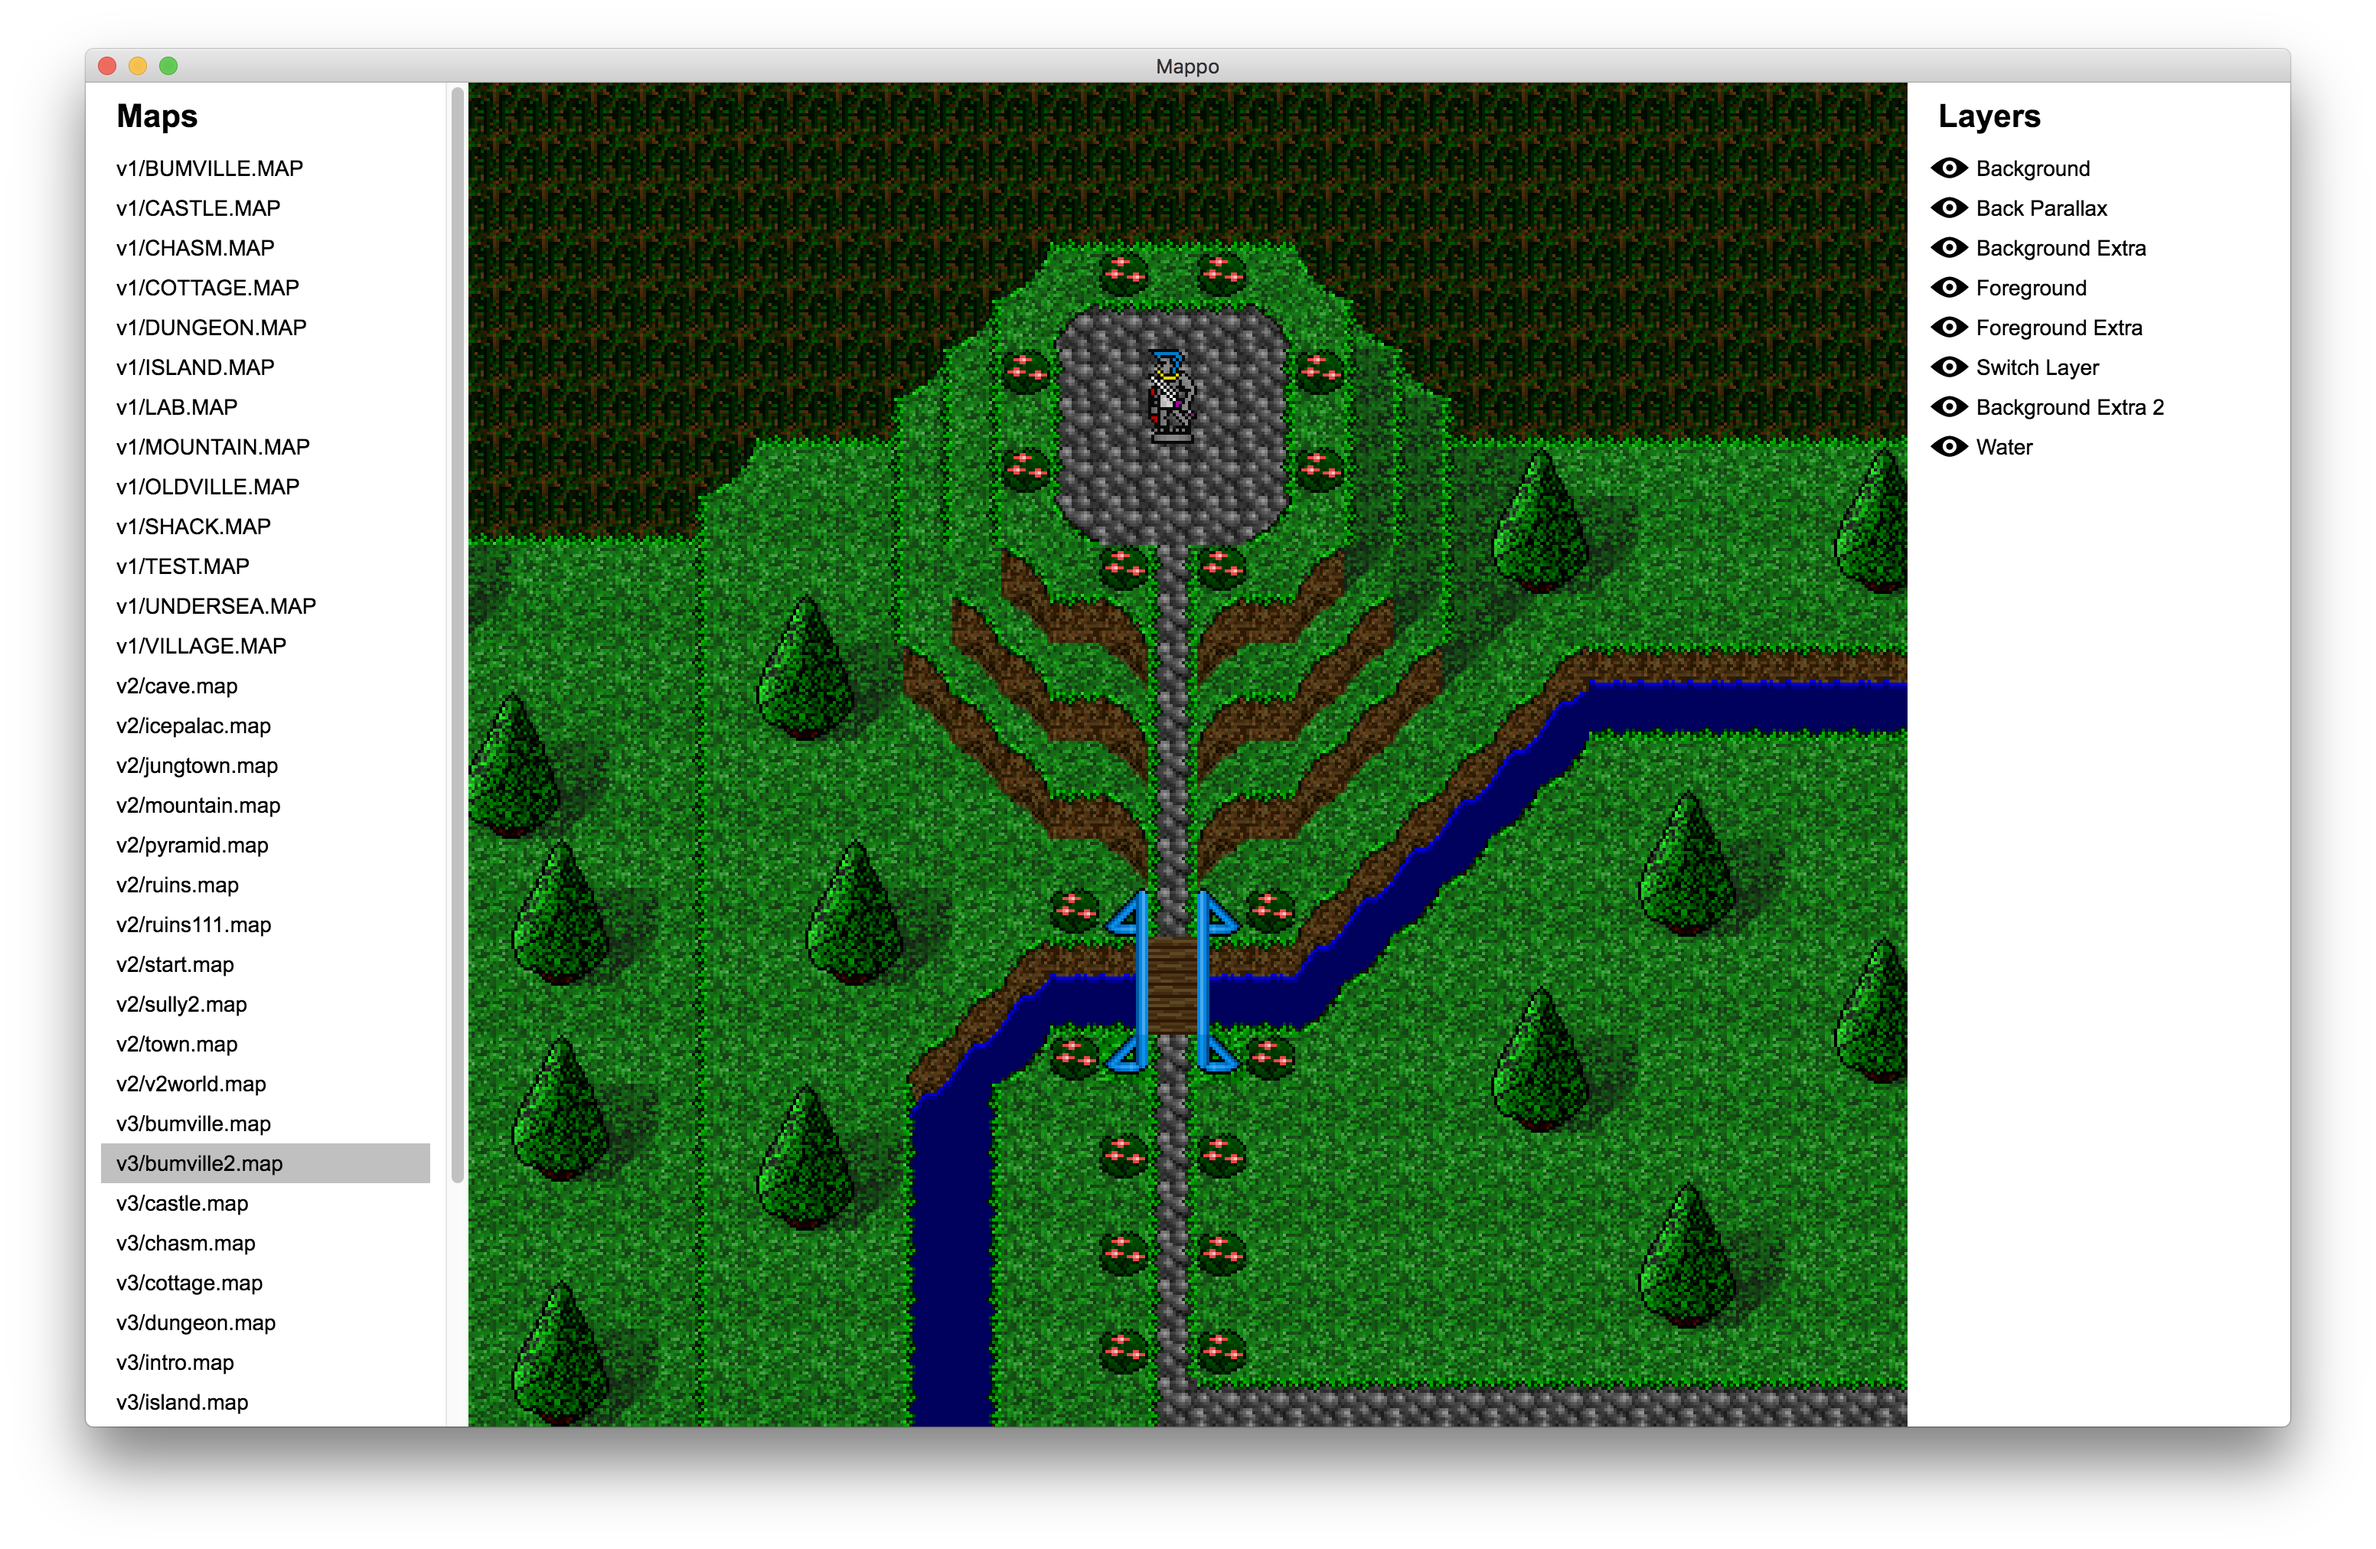
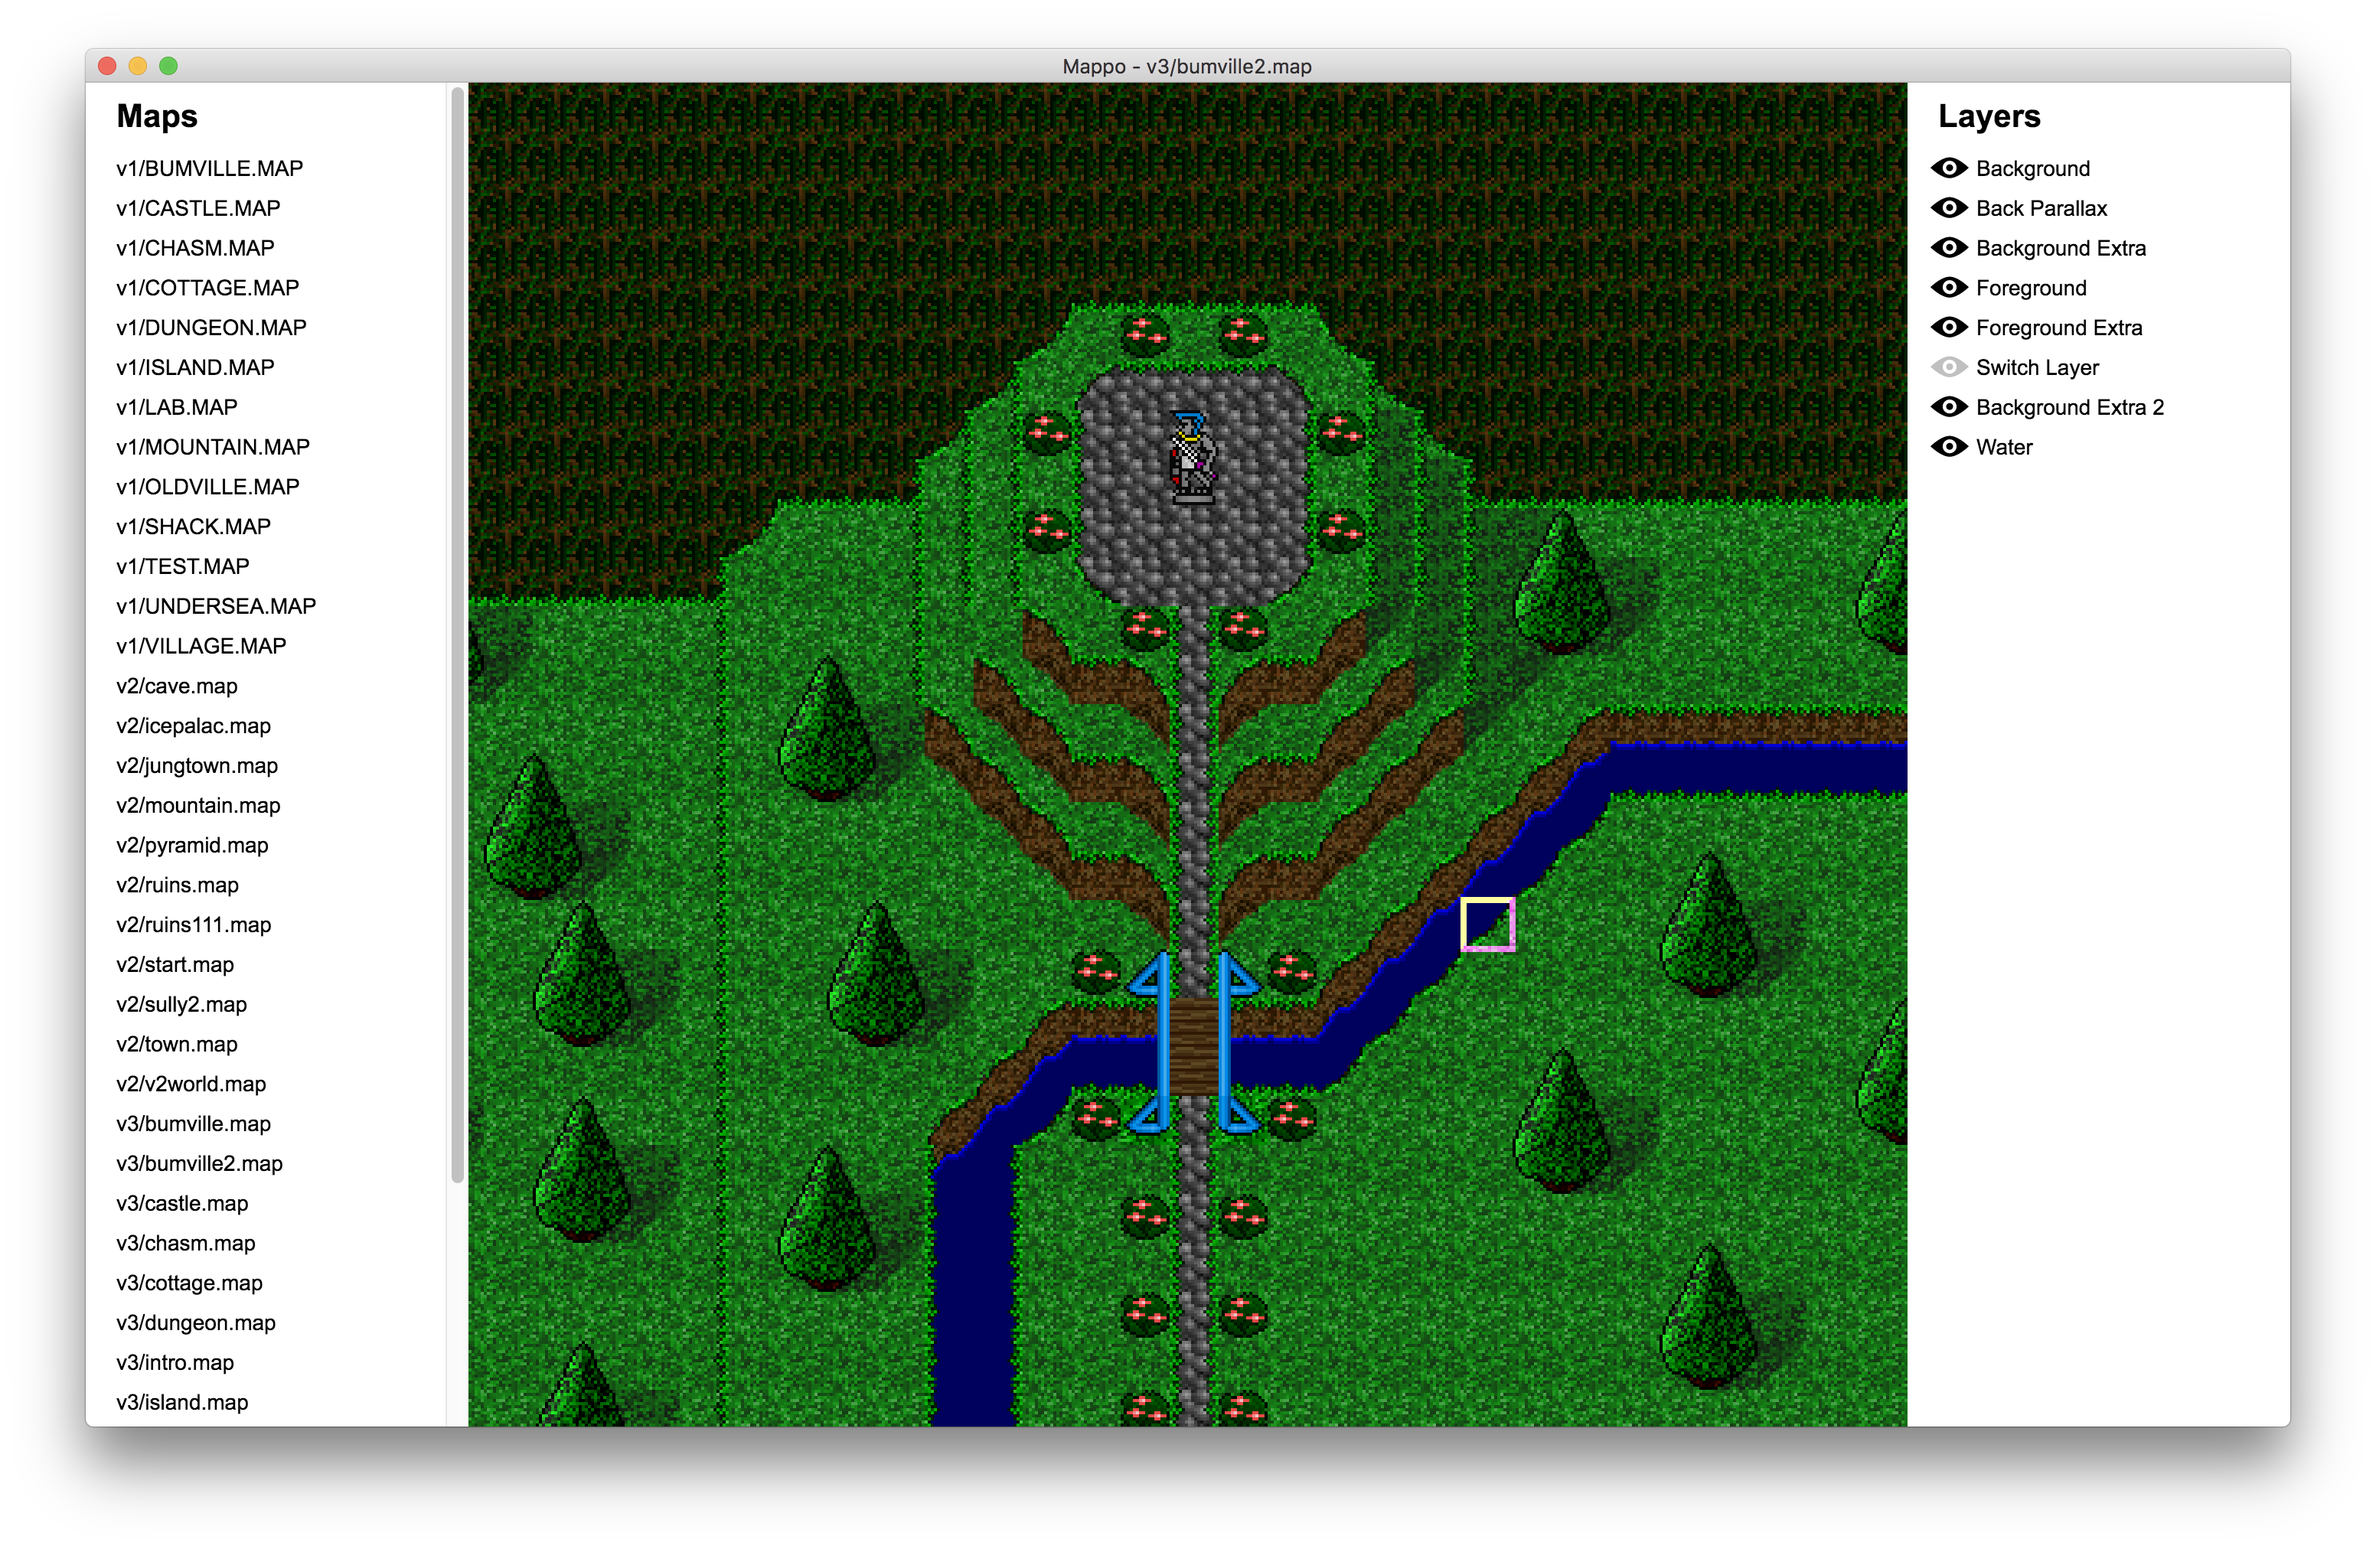
include map filename in app title. latest wip screenshot

diff --git a/src/mappo.js b/src/mappo.js
@@ -42,13 +42,17 @@ const mappoState = {
 
 const getScale = () => viewportScales[mappoState.scaleIndex]
 
+const pageTitle = document.querySelector('title')
 const mapList = document.querySelector('.map-list')
 mappoSession.getMapFilenames().forEach(mapFilename => {
   const li = document.createElement('li')
   li.setAttribute('title', mapFilename)
   li.innerText = mapFilename
   // TODO(chuck): temp hack for windows. figure out better launchFolder shenanigans
-  li.addEventListener('click', event => loadMap('data/' + mapFilename))
+  li.addEventListener('click', event => {
+    loadMap('data/' + mapFilename)
+    pageTitle.innerText = 'Mappo - ' + mapFilename
+  })
   mapList.appendChild(li)
 })
 
